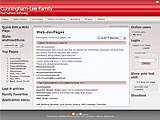
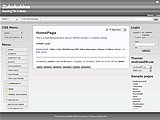
[ENH] Main theme is 'black' (monochrome); colors are options. (Since there can be a small delay before theme option colors display, it seems better to add color to monochrome than vice versa.)

diff --git a/mods/trunk/themes/andreas09_tiki_3/styles/andreas09.css b/mods/trunk/themes/andreas09_tiki_3/styles/andreas09.css
@@ -35,7 +35,8 @@ html>body {font-size: 72% !important}
 		also styling of page layout divs)  *****/
 #middle {
 	padding-top: 20px;
-	background: url(andreas09/mid.jpg) repeat-x}
+	background: url(andreas09/options/black/mid.jpg) repeat-x}
+	
 
 #c1c2 {
 	text-align: left;
@@ -140,7 +141,7 @@ select {
 	color: #000;
 	font-family: Verdana,Tahoma,Arial,sans-serif;
 	vertical-align: middle;
-	background: #f0f0f0 url(andreas09/menuhover.jpg) top left repeat-x;
+	background: #f0f0f0 url(andreas09/options/black/menuhover.jpg) top left repeat-x;
 	cursor: pointer}
 
 
@@ -159,7 +160,7 @@ span.button input,
 	color: #666;
 	font-family: Verdana,Tahoma,Arial,sans-serif;
 	font-size: 10px;
-	background: #f0f0f0 url(andreas09/menuhover.jpg) 0 -20px repeat-x;
+	background: #f0f0f0 url(andreas09/options/black/menuhover.jpg) 0 -20px repeat-x;
 	font-weight: bold;
 	margin: 2px;
 	vertical-align: middle;
@@ -173,7 +174,7 @@ span.button input,
 	border-bottom: 1px solid #696969;
 	color: #666;
 	font-size: 10px;
-	background: #f0f0f0 url(andreas09/menuhover.jpg) 0 -20px repeat-x;
+	background: #f0f0f0 url(andreas09/options/black/menuhover.jpg) 0 -20px repeat-x;
 	font-weight: bold;
 	margin: 2px;
 	vertical-align: middle;
@@ -186,7 +187,7 @@ input[type=submit]:hover,
 .button input:hover,
 .submitbutton:hover,
 .calbuttonBox a:hover {
-	background: #f0f0f0 url(andreas09/menuhover.jpg) 0 0 repeat-x}
+	background: #f0f0f0 url(andreas09/options/black/menuhover.jpg) 0 0 repeat-x}
 
 select[multiple] {height: 10em}
 
@@ -213,7 +214,7 @@ ul, ol {text-align: left}
 /***** Site Header & Identity *****/
 #header-top {
 	min-height: 101px !important;
-	background: url(andreas09/header.jpg) repeat-x bottom}
+	background: url(andreas09/options/black/header.jpg) repeat-x bottom}
 
 * html #header-top {height: 101px}
 
@@ -249,7 +250,7 @@ ul, ol {text-align: left}
 
 
 #tiki-top {
-	background: url(andreas09/header.jpg) repeat-x;
+	background: url(andreas09/options/black/header.jpg) repeat-x;
 	height: 38px}
 
 #sitesearchbar {
@@ -259,7 +260,7 @@ ul, ol {text-align: left}
 
 #sitesearchbar .button {
 	border: solid 1px #aaa;
-	background: #f0f0f0 url(andreas09/menuhover.jpg) top left repeat-x;
+	background: #f0f0f0 url(andreas09/options/black/menuhover.jpg) top left repeat-x;
 	color: #505050;
 	font-weight: bold;
 	margin: 2px;
@@ -294,7 +295,7 @@ ul, ol {text-align: left}
 	color: #303030;
 	text-decoration: none}
 
-.sf-sub-indicator {background: url(andreas09/arrows-000.png) no-repeat -10px -100px; /* 8-bit indexed alpha png. IE6 gets solid image only; */}
+.sf-sub-indicator {background: url(andreas09/options/black/arrows-000.png) no-repeat -10px -100px; /* 8-bit indexed alpha png. IE6 gets solid image only; */}
 li.menuSection a .sf-sub-indicator {top: 1em}
 #tiki-top > .cssmenu_horiz > li {margin-top: 2px}
 
@@ -309,7 +310,7 @@ li.menuSection a .sf-sub-indicator {top: 1em}
 #tiki-top .cssmenu_horiz li.menuSection a {padding-right: 20px}
 #tiki-top .cssmenu_horiz li.menuSection a ul li a {padding-right: 10px}
 #tiki-top .cssmenu_horiz li a:hover {
-	background: url(andreas09/menuhover.jpg);
+	background: url(andreas09/options/black/menuhover.jpg);
 	text-decoration: none}
 
 #tiki-top .cssmenu_horiz li.menuSection a .sf-sub-indicator {top: 1.8em}
@@ -333,7 +334,7 @@ li.menuSection a .sf-sub-indicator {top: 1em}
 	text-transform: uppercase}
 
 .horbaritem a:hover {
-	background: #f0f0f0 url(andreas09/menuhover.jpg) top 	left repeat-x;
+	background: #f0f0f0 url(andreas09/options/black/menuhover.jpg) top 	left repeat-x;
 	color: #505050;
 	text-decoration: none}
 
@@ -402,7 +403,7 @@ a.phplmselected:active {
 	color: black;
 	text-decoration: underline;
 	font-weight: bold;
-	background: url(andreas09/menuhover.jpg)}
+	background: url(andreas09/options/black/menuhover.jpg)}
 
 a.phplmselected:hover {color: #808080}
 
@@ -462,6 +463,7 @@ div.menuSection {
 	padding-bottom: .3em}
 
 /***** Misc. Center Col. *****/
+#showhide_columns {margin: 0 15px 3px 20px}
 
 #c1c2 #wrapper #col1 #tiki-center {
 	background: #fafcff;
@@ -595,7 +597,7 @@ td.even {
 
 .tabmark a:hover {
 	color: black;
-	background: #f0f0f0 url(andreas09/menuhover.jpg) top left repeat-x}
+	background: #f0f0f0 url(andreas09/options/black/menuhover.jpg) top left repeat-x}
 
 .tabcontent {
 	padding: 26px 2px 2px 2px;
@@ -641,7 +643,7 @@ div#description {
 	margin-bottom: 10px}
 
 .titlebar {
-	background:#f0f0f0 url(andreas09/menuhover.jpg) top left repeat-x;
+	background:#f0f0f0 url(andreas09/options/black/menuhover.jpg) top left repeat-x;
 	color:#505050;
 	font-weight: bold;
 	text-transform: uppercase;
@@ -942,7 +944,7 @@ div.postfooter {
 
 .post .postbody-title {
 	display: block;
-	background: transparent url(andreas09/bodybg.jpg) repeat-x;
+	background: transparent url(andreas09/options/black/bodybg.jpg) repeat-x;
 	border-bottom: 0;
 	margin-bottom: 4px;
 	padding-top: 2px}
@@ -971,7 +973,7 @@ div.postfooter {
 
 .post .author_post_info {
 	display: block;
-	background: #f3efee url(andreas09/bodybg.jpg) repeat-x 0 -101px;
+	background: #f3efee url(andreas09/options/black/bodybg.jpg) repeat-x 0 -101px;
 	padding: 0 0 2px 0}
 
 .post .author_info .icons {display: block}
@@ -1390,7 +1392,7 @@ Caltrack a:visited {color: #00BD02}
 .box-data td a.today {
 	border: solid 1px #696969;
 	border: solid 1px #aaa;
-	background: #f0f0f0 url(andreas09/menuhover.jpg) top left repeat-x;
+	background: #f0f0f0 url(andreas09/options/black/menuhover.jpg) top left repeat-x;
 	color: #505050;
 	font-weight: bold;
 	margin: 2px;
@@ -1429,16 +1431,16 @@ Caltrack a:visited {color: #00BD02}
 
 .daterow {
 	color: #000;
-	background: #f0f0f0 url(andreas09/menuhover.jpg) top left repeat-x;
+	background: #f0f0f0 url(andreas09/options/black/menuhover.jpg) top left repeat-x;
 	cursor: pointer}
 	
 .daterow:hover {
 	color: #000;
-	background: #f0f0f0 url(andreas09/menuhover.jpg) top left repeat-x}
+	background: #f0f0f0 url(andreas09/options/black/menuhover.jpg) top left repeat-x}
 
 .calnavigation a,.calnavigation a:hover {
 	color: #000;
-	background: #f0f0f0 url(andreas09/menuhover.jpg) top left repeat-x}
+	background: #f0f0f0 url(andreas09/options/black/menuhover.jpg) top left repeat-x}
 
 /***** Admin *****/
 
